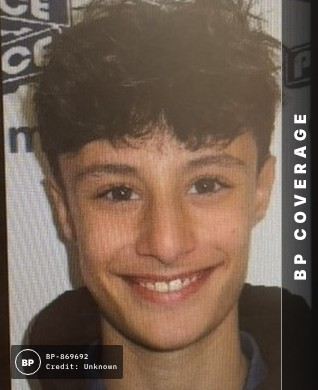
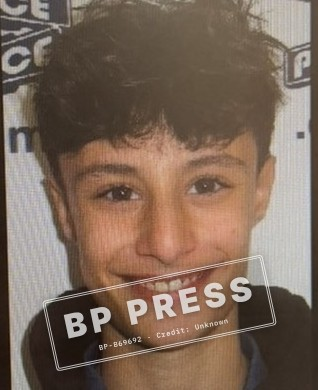
Photo 3: BP Press stamp over the photo
Claude-Session: https://claude.ai/code/session_01R4Yd9DXFZUHxv4JskfZizu

Changed region(s): [[0.8491, 0.0, 1.0, 1.0], [0.0283, 0.6462, 0.8491, 0.9846]]

diff --git a/clients/photo-originals/make-watermarks.js b/clients/photo-originals/make-watermarks.js
@@ -1,5 +1,5 @@
 // Burns each photo's agency mark into it, at the photo's own size, from the clean originals in this folder.
-//   JL Media (1, 2, 4): corner logo + one big faint name   ·   BP Coverage (3): inset frame with a label   ·   BG Coverage (5): five slanted faint names
+//   JL Media (1, 2, 4): corner logo + one big faint name   ·   BP Press (3): tilted rubber stamp over the middle   ·   BG Coverage (5): five slanted faint names
 const { chromium } = require('playwright'); const fs = require('fs');
 const R = '/home/user/kulmanzimanwebsiterepo';
 const P = [['ryder-ziman-1', 'R.J.C.', 'jl'], ['ryder-ziman-2', 'R.J.C.', 'jl'], ['ryder-ziman-3', 'Unknown', 'ss'], ['ryder-ziman-4', 'Jessica Lee', 'jl'],
@@ -15,7 +15,7 @@ const PREFIX = { jl: 'JL-', ss: 'BP-', bg: 'BG-' };
     const px = v => Math.round(v * u) + 'px';
     const marks = {
       jl: `<div class="big">JL Media</div><div class="lg">JL<span> Media</span></div><div class="id">${id} · Credit: ${cred}</div>`,
-      ss: `<div class="bps"><span>BP COVERAGE</span></div><div class="bpst"><b>BP</b><i>${id}<br>Credit: ${cred}</i></div>`,
+      ss: `<div class="bpw"><div class="bpstamp"><b>BP PRESS</b><i>${id} · Credit: ${cred}</i></div></div>`,
       bg: `<div class="bgt">${Array(5).fill('<span>BG COVERAGE</span>').join('')}</div><div class="bgc"><b>BG</b>COVERAGE</div><div class="id">${id} · Credit: ${cred}</div>`,
     };
     const html = `<link href="https://fonts.googleapis.com/css2?family=Inter:wght@400;800;900&family=IBM+Plex+Mono:wght@500&family=Archivo:wdth,wght@125,800&display=swap" rel="stylesheet">
@@ -31,12 +31,11 @@ const PREFIX = { jl: 'JL-', ss: 'BP-', bg: 'BG-' };
 .ssf{inset:${px(26)};border:${Math.max(1, Math.round(2 * u))}px solid rgba(255,255,255,.6);box-shadow:0 0 ${px(18)} rgba(0,0,0,.25)}
 .ssl{left:50%;top:${px(26)};transform:translate(-50%,-50%);background:#fff;color:#111;padding:${px(7)} ${px(16)};font:900 ${px(22)} Inter;letter-spacing:.22em;white-space:nowrap;box-shadow:0 ${px(4)} ${px(16)} rgba(0,0,0,.35)}
 .ssid{right:${px(38)};bottom:${px(38)};font:500 ${Math.max(8, Math.round(13 * u))}px "IBM Plex Mono";letter-spacing:.1em;color:#fff;text-shadow:0 1px 6px rgba(0,0,0,.7)}
-/* BP Coverage: a dark strip down the right edge with the name running up it, and a small stamp with the ID bottom-left */
-.bps{top:0;bottom:0;right:0;width:${px(70)};background:linear-gradient(90deg,rgba(8,8,10,.55),rgba(8,8,10,.82));display:grid;place-items:center;border-left:${Math.max(1, Math.round(2 * u))}px solid rgba(255,255,255,.55)}
-.bps span{position:static;writing-mode:vertical-rl;transform:rotate(180deg);white-space:nowrap;font:900 ${px(30)} Inter;letter-spacing:.32em;color:#fff}
-.bpst{left:${px(22)};bottom:${px(22)};display:flex;align-items:center;gap:${px(10)};background:rgba(8,8,10,.62);padding:${px(8)} ${px(12)} ${px(8)} ${px(8)};border-radius:${px(4)}}
-.bpst b{display:grid;place-items:center;width:${px(46)};height:${px(46)};border-radius:50%;border:${Math.max(1, Math.round(2 * u))}px solid #fff;color:#fff;font:900 ${px(18)} Inter;letter-spacing:.04em}
-.bpst i{font:500 ${Math.max(7, Math.round(12 * u))}px "IBM Plex Mono";font-style:normal;letter-spacing:.08em;color:#fff;line-height:1.45}
+/* BP Press: a tilted, see-through rubber stamp over the middle of the photo */
+.bpw{inset:0;display:grid;justify-items:center;align-items:end;padding-bottom:13%}
+.bpstamp{position:static;transform:rotate(-12deg);display:grid;justify-items:center;gap:${px(6)};padding:${px(14)} ${px(26)};border:${Math.max(2, Math.round(5 * u))}px double rgba(255,255,255,.7);border-radius:${px(8)};background:rgba(0,0,0,.12);box-shadow:0 0 ${px(18)} rgba(0,0,0,.25)}
+.bpstamp b{font:900 ${px(64)} Inter;letter-spacing:.14em;color:rgba(255,255,255,.72);white-space:nowrap;margin-right:-.14em;text-shadow:0 2px ${px(10)} rgba(0,0,0,.3)}
+.bpstamp i{font:500 ${Math.max(7, Math.round(13 * u))}px "IBM Plex Mono";font-style:normal;letter-spacing:.1em;color:rgba(255,255,255,.85);white-space:nowrap}
 /* BGMEDIA: five slanted faint names across the photo, a small boxed logo in the corner */
 .bgt{left:-12%;right:-12%;top:2%;bottom:14%;transform:rotate(-20deg);display:flex;flex-direction:column;justify-content:space-between;align-items:center}
 .bgt span{font:800 ${px(42)} Archivo;font-stretch:125%;letter-spacing:.1em;color:rgba(255,255,255,.2);white-space:nowrap;text-shadow:0 0 ${px(6)} rgba(0,0,0,.08)}

diff --git a/MEMORY.md b/MEMORY.md
@@ -52,7 +52,7 @@ Last updated: Nov 27, 2026 (after v298).
    npm install
    whop apps deploy --app app_JdRDs81kkoj3CZ
    ```
-- **Latest version: v326.**
+- **Latest version: v327.**
 
 ## The site (mono theme)
 - **Pages:** Home, Pricing (products), About, Portfolio, Affiliates, Help, Legal, Get Started, Ryder Ziman (/ryderziman).
@@ -69,7 +69,7 @@ Last updated: Nov 27, 2026 (after v298).
   Nov 12 rebrand, Nov 20 Sports Culture, six demos, now, next), and the six demos as live cards. Timeline class is .rz-tl (.timeline is taken); the card is .rzf (.flip is taken by the product flip cards in site.js).
 - **Photo pages for Google Images (Nov 28):** five pages: /jlpress/ryder-ziman-1, -2, -bm (the chair / bar mitzvah photo), -5 and /bmedia/ryder-ziman (photo 3) (podium, navy suit, smiling, chair, instant photo).
   - Taken down: old photo 4 and the photo with Maxim (files in clients/removed-photos; their addresses answer 410). Older addresses 301 to the new ones (whop-site/server/index.js).
-  - Marks (clients/photo-originals/make-watermarks.js): "JL Media" on 1, 2, 4 (pages /jlpress/...); "BP Coverage" vertical right strip + round BP stamp on 3 (page /bmedia/ryder-ziman); "BG Coverage" five slanted names on 5 (cropped to Ryder and his dad).
+  - Marks (clients/photo-originals/make-watermarks.js): "JL Media" on 1, 2, 4 (pages /jlpress/...); "BP Press" tilted rubber stamp over the lower photo on 3 (page /bmedia/ryder-ziman); "BG Coverage" five slanted names on 5 (cropped to Ryder and his dad).
   - Photo IDs are fixed random numbers (NUM in make-watermarks.js).
   - Ryder asked for "BFA Coverage" on 5; declined (BFA = Billy Farrell Agency, a real event-photo agency).
   - Fake "404" look, titles "Ziman, Ryder" (1, 2 and 5: "Ziman, Ryder: son of Michael Ziman"), credits: "R.J.C." on 1 and 2, "Jessica Lee" on the chair photo (4), "Unknown" on 3 and 5.
